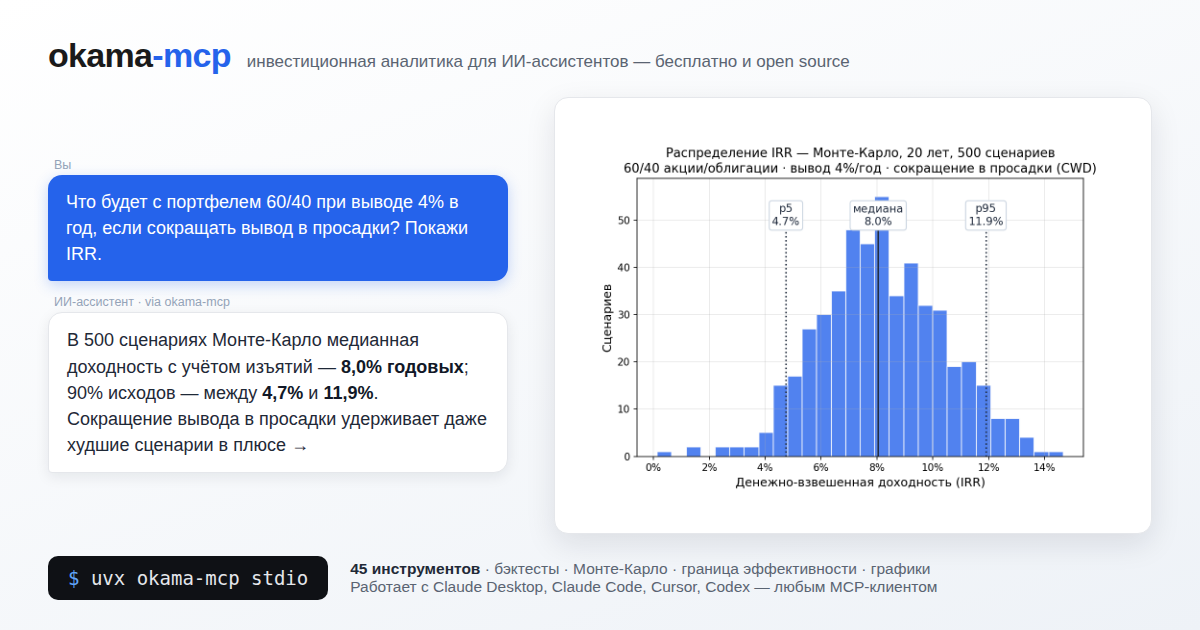
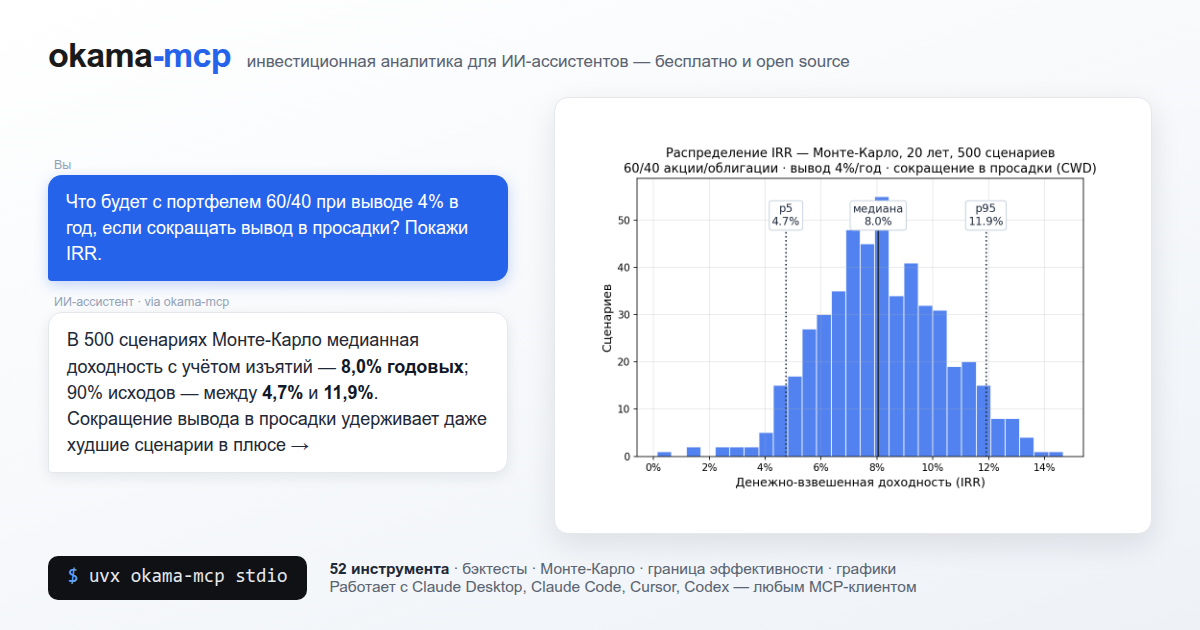
docs(images): refresh announcement covers for the 52-tool catalog
Re-render the English and Russian covers at 1200x630 after the standard install
grew from 50 to 52 tools; the Russian footer was still showing the 1.6-era 47.

diff --git a/docs/images/src/announce-ru.html b/docs/images/src/announce-ru.html
@@ -89,7 +89,7 @@
 
   <div class="foot">
     <div class="chip"><span class="prompt">$</span> uvx okama-mcp stdio</div>
-    <div class="meta"><b>47 инструментов</b> · бэктесты · Монте-Карло · граница эффективности · графики<br/>
+    <div class="meta"><b>52 инструмента</b> · бэктесты · Монте-Карло · граница эффективности · графики<br/>
       Работает с Claude Desktop, Claude Code, Cursor, Codex — любым MCP-клиентом</div>
   </div>
 </body>

diff --git a/docs/images/src/announce-en.html b/docs/images/src/announce-en.html
@@ -89,7 +89,7 @@
 
   <div class="foot">
     <div class="chip"><span class="prompt">$</span> uvx okama-mcp stdio</div>
-    <div class="meta"><b>50 core tools</b> · backtests · Monte Carlo · efficient frontier · charts<br/>
+    <div class="meta"><b>52 tools</b> · backtests · Monte Carlo · efficient frontier · charts<br/>
       Works with Claude Desktop, Claude Code, Cursor, Codex — any MCP client</div>
   </div>
 </body>
